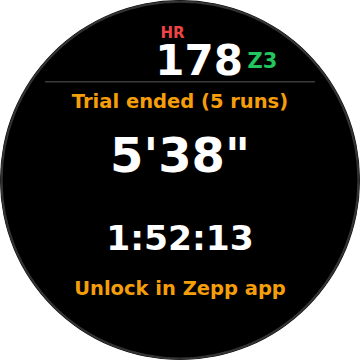
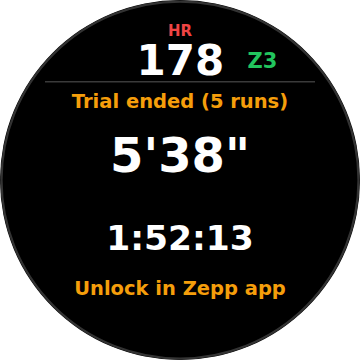
Remove the likely causes of the watch restart
- No HR chart (SPORT_DATA CHART_HR, a widget RunDeck had never used): the
  top value is centered instead
- Watch-drawn values are kept across onResume/layout re-applies; only slots
  the layout drops lose theirs, the rest move only when their box changes
- A sport_data type the firmware lacks is never passed to createWidget
- VO2 max (Workout.getStatus) is read only when a slot shows it
- Test: every native type exists in the SDK's sport_data list

Claude-Session: https://claude.ai/code/session_013qte2knoxsWokNb1QZ87go

Changed region(s): [[0.3667, 0.0611, 0.6722, 0.2139]]

diff --git a/data-widget/common/index.js b/data-widget/common/index.js
@@ -19,7 +19,6 @@ import {
   GLYPH_WIDTH,
   HEADER_CENTERED,
   HEADER_SUFFIX,
-  HR_GRAPH,
   ICON,
   NOTICE,
   NOTICE_SUB,
@@ -82,8 +81,6 @@ const CONFIG_RETRY_SEC = 60
 // Wait this long for the phone's reply (license, trial count) before the
 // access mode is latched for the activity; offline, the cached state decides.
 const PHONE_GRACE_SEC = 10
-// edit_id of the native HR chart; slots take 101 and up
-const CHART_EDIT_ID = 100
 
 // shipped icon size nearest to a scaled size
 function iconFile(size) {
@@ -144,7 +141,6 @@ DataWidget(
         loadObject(LAYOUT_KEY),
       )
       this.state.hrZones = resolveHrZones(this.state.config)
-      this.state.vo2max = readVo2Max()
       const lic = loadObject(LICENSE_KEY)
       this.state.licensed = !!(lic && lic.licensed)
       this.state.trial = new TrialSession(
@@ -342,12 +338,14 @@ DataWidget(
         for (const id of rowSlots(row.id, cols))
           geo[id] = ROW_GEOMETRY[row.id][cols][id]
       }
-      // a single top value without the HR graph is centered
-      if (geo.header && layout.slots.header !== "hr")
-        geo.header = HEADER_CENTERED
+      // a single top value is centered (the HR zone suffix sits after it)
+      if (geo.header) geo.header = HEADER_CENTERED
       this.state.geo = geo
-      // native value widgets are placed per slot: rebuild them where needed
-      for (const id of Object.keys(this.state.native)) this.dropNative(id)
+      // watch-drawn values of slots the layout no longer shows go; the rest
+      // are moved by render() only if their place or size changed (creating
+      // and deleting SPORT_DATA widgets is costly for the watch)
+      for (const id of Object.keys(this.state.native))
+        if (!geo[id] || !FIELDS[layout.slots[id]].native) this.dropNative(id)
       // sizes/positions changed: forget what was drawn for the slots
       for (const k of Object.keys(this.state.cache))
         if (/^(r\d[lcr]|header[lr]?)[lvi]:/.test(k)) delete this.state.cache[k]
@@ -575,12 +573,15 @@ DataWidget(
     },
 
     createNative(editId, type, box) {
+      // a type this firmware doesn't know must never reach the watch
+      const nativeType = sport_data ? sport_data[type] : null
+      if (nativeType == null) return null
       try {
         return (
           createWidget(widget.SPORT_DATA, {
             edit_id: editId,
             category: edit_widget_group_type.SPORTS,
-            default_type: sport_data[type],
+            default_type: nativeType,
             x: box.x,
             y: box.y,
             w: box.w,
@@ -609,27 +610,6 @@ DataWidget(
         /* already gone */
       }
       delete this.state.native[id]
-    },
-
-    // The watch's own HR chart next to a single top HR value.
-    showChart(show) {
-      const ui = this.state.ui
-      if (!show) {
-        if (ui.chart)
-          try {
-            deleteWidget(ui.chart)
-          } catch (e) {
-            /* already gone */
-          }
-        ui.chart = null
-        return
-      }
-      if (ui.chart) return
-      ui.chart = this.createNative(CHART_EDIT_ID, "CHART_HR", {
-        ...HR_GRAPH,
-        text_size: px(16),
-        text_color: COLORS.value,
-      })
     },
 
     // Rendered text width in px: the watch's own layout engine when the
@@ -712,6 +692,12 @@ DataWidget(
       if (!ui.slots || !metrics) return
       const s = metrics.snapshot
       const locked = mode === "locked"
+      // VO2 max: read once, and only when a slot shows it
+      if (
+        this.state.vo2max === undefined &&
+        activeSlots(layout).some((id) => layout.slots[id] === "vo2max")
+      )
+        this.state.vo2max = readVo2Max()
       const ctx = { s, hrZones: this.state.hrZones, vo2max: this.state.vo2max }
 
       // target: colors every slot that shows the target's live metric
@@ -768,7 +754,7 @@ DataWidget(
           )
       }
 
-      // single top value showing HR: zone suffix + the watch's HR chart
+      // single top value showing HR: zone suffix
       const headerIsHr =
         layout.cols.header === 1 && layout.slots.header === "hr"
       this.setProp(
@@ -783,7 +769,6 @@ DataWidget(
         "color",
         zoneColor(hrPos ? hrPos.zone : 0),
       )
-      this.showChart(!locked && headerIsHr)
 
       // dividers: only the header rule stays in locked mode
       for (let i = 1; i < ui.dividers.length; i++)

diff --git a/data-widget/common/index.r.layout.js b/data-widget/common/index.r.layout.js
@@ -60,13 +60,6 @@ const line = (x, y, w, h) => ({
 // count (ROW_GEOMETRY); any field can go in any slot, so the widget shrinks
 // text that would overflow its slot width.
 
-// the watch's own HR chart (SPORT_DATA CHART_HR) left of a single top HR
-export const HR_GRAPH = {
-  x: px(92),
-  y: px(50),
-  w: px(108),
-  h: px(52),
-}
 // zone ("Z2") next to the header value when the header shows heart rate
 export const HEADER_SUFFIX = label(330, 64, 70, COLORS.value, align.LEFT, 28)
 

diff --git a/README.md b/README.md
@@ -1,7 +1,7 @@
 # RunDeck — one-screen running dashboard for Amazfit (Zepp OS)
 
 A **Zepp OS Workout Extension** that pins a dense, glanceable data screen inside the native
-Amazfit running workout: HR with the watch's HR chart, lap vs average HR and
+Amazfit running workout: HR with its zone, lap vs average HR and
 pace around a big center pace (or power), a five-zone bar, elapsed time, cadence, lap
 distance, grade, distance and total ascent — all on one page.
 
@@ -20,7 +20,7 @@ regenerates them).
 ## The screen
 
 ```
-        [watch HR chart]  106 Z1
+                  106 Z1
       Lap HR 105   │   117 Avg HR
  Lap Pace        5'38         Avg Pace       <- center: pace or power, colored vs target
    4'52                         4'42
@@ -33,7 +33,7 @@ regenerates them).
 
 | What | Source |
 |---|---|
-| Every value in a slot, the HR chart | drawn by the watch: `SPORT_DATA` widgets (`@zos/ui` `sport_data` types, e.g. `PACE_CUR_AVG` lap pace, `DISTANCE_TOTAL`, `DURATION_NET`) |
+| Every value in a slot | drawn by the watch: `SPORT_DATA` widgets (`@zos/ui` `sport_data` types, e.g. `PACE_CUR_AVG` lap pace, `DISTANCE_TOTAL`, `DURATION_NET`) |
 | HR zone (field, top-row suffix), zone bar marker | HeartRate sensor (`data:user.hd.heart_rate`) placed in the HR zones |
 | Target colors, pace/power zone bar marker | native `getSportData` (`pace`; `power` — **not in the documented types**, probed only when a target or the bar uses it) |
 | Trial run counting | native `getSportData("duration")` |
@@ -43,7 +43,7 @@ regenerates them).
 The screen is a top row plus five rows and the zone bar. Each row has a **column count**
 (top row: 1–2, rows 1 and 4: 2–3, the big-number rows 2 and 3: 1–3, bottom row: 1–2; the
 limits keep text readable on the round screen). HR as the single top value gets the
-watch's HR chart and a zone suffix; in a two-column top row the zone moves into its label
+zone suffix; in a two-column top row the zone moves into its label
 ("HR Z3", zone-colored). Any of 66 fields can go in any spot:
 
 - **Heart rate:** HR, HR zone, avg / lap / last-lap HR, % max HR (current / avg / lap),
@@ -66,7 +66,8 @@ alignment; RunDeck adds the label. Lap values follow the watch's own laps and it
 auto-lap setting. VO2 max is the value the watch keeps for the user
 (`Workout.getStatus`, read once when the screen opens). The SDK's `sport_data` types were
 the source for the catalog; left out are the ones for other sports (swim, ski, golf,
-rowing, diving), the other charts (pace, altitude, cadence), barometric pressure and
+rowing, diving), the charts (HR, pace, altitude, cadence; the HR chart is the prime
+suspect in a watch restart), barometric pressure and
 min/max temperature. There is no max HR value for extensions, and GAP, vertical
 oscillation and ground contact time are not exposed by Zepp OS at all. Units are the
 watch's to draw, so RunDeck adds none.

diff --git a/CHANGELOG.md b/CHANGELOG.md
@@ -12,8 +12,10 @@
   exactly (distance, lap pace, lap distance, averages) and keeps updating while RunDeck's
   code is suspended (screen off, another data page). RunDeck computes nothing any more: its
   own laps, averages, max HR, grade and HR history are gone. Lap fields follow the watch's
-  laps and auto-lap setting; the lap key is left entirely to the watch. The HR graph is the
-  watch's HR chart. New fields: last-lap HR and last-lap time; "Lap count" is now the
+  laps and auto-lap setting; the lap key is left entirely to the watch. The HR graph is
+  gone (the watch's HR chart widget is the prime suspect in a watch restart); the top
+  value is centered.
+  New fields: last-lap HR and last-lap time; "Lap count" is now the
   watch's lap number. Max HR is dropped (the watch offers no such value to extensions).
 - The watch draws values in its own format, so RunDeck no longer adds units after them; the
   units and auto-lap settings are gone. Target colors apply to the watch-drawn value.
@@ -29,6 +31,9 @@
 - The watch's own HR zones: app.json now targets API 4.2, where
   Workout.getUserHrZoneSettings lives (3.6 stays the minimum; older watches still fall back
   to 220 - age).
+- Crash guards: watch-drawn values are no longer deleted and recreated each time the page
+  comes back into view, a type the firmware doesn't know is never handed to the watch, and
+  VO2 max is read only when a slot shows it.
 
 - Every round screen size: the HR graph, icons and bottom row scale correctly from 480 down to 360 px
   (icons ship in five pixel sizes, graph bars are placed from the scaled width, the bottom row sits
